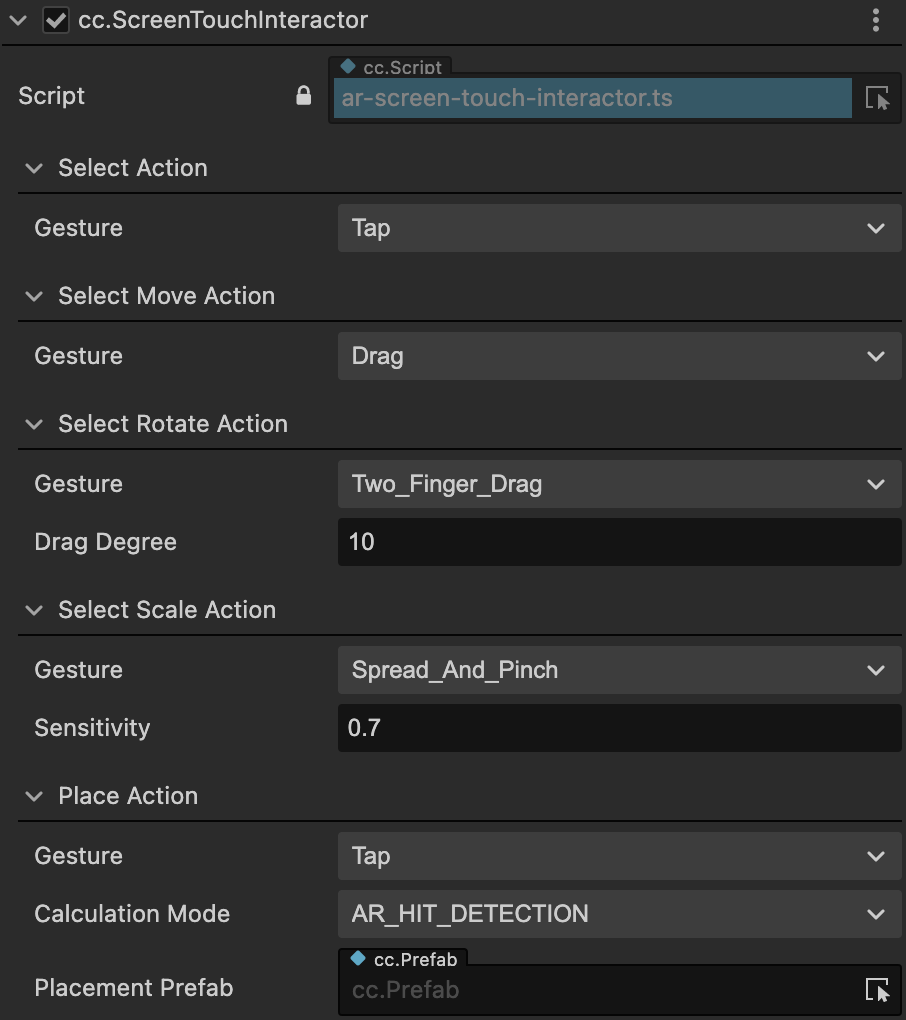
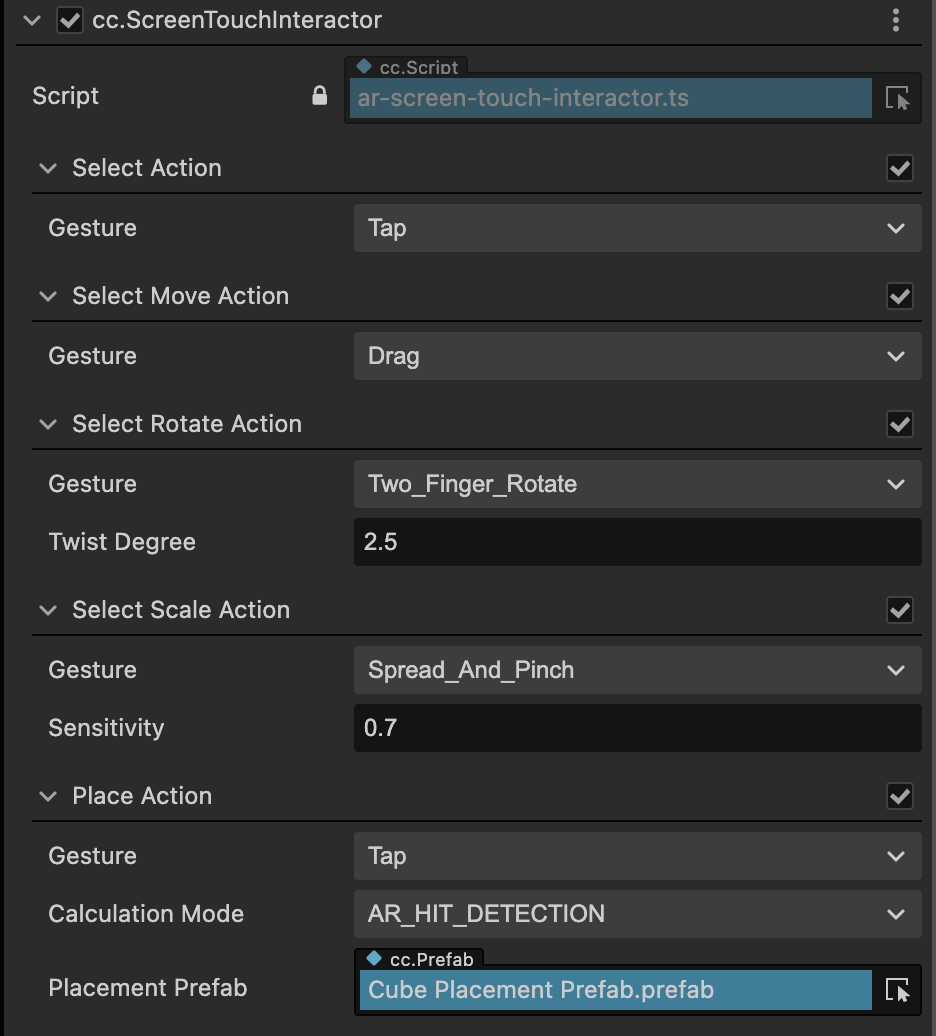
v1.2.0 新增功能

Changed region(s): [[0.0, 0.0, 1.0, 1.0], [0.3709, 0.699, 0.4327, 0.7294], [0.3709, 0.5167, 0.4327, 0.5471]]

diff --git a/zh/xr/architecture/component.md b/zh/xr/architecture/component.md
@@ -86,6 +86,14 @@ HMD（Head Mounted Display）头戴显示设备控制器，可以认为所有具
 | Auto Focus               | 开启或关闭相机自动对焦功能。关闭时，使用固定对焦模式。自动对焦功能是否可用取决于设备相机。 |
 | Light Estimate（实验性） | 开启后，运行时估计环境光各项属性并实时调整场景光照，让虚拟物体具有与真实场景相同的光照效果（光照一致性）。 |
 
+注：v1.2.0以上的版本光照估计支持两种模式：Basic和HDR。
+
+若需要启用Basic模式，需要将场景中Skybox的Envmap属性设置为LDR。
+
+若需要启用HDR模式，需要将场景中Skybox的Envmap属性设置为HDR。
+
+*当前iOS平台仅支持Basic模式。
+
 ## 交互组件
 
 一次交互操作需要有两种对象协调完成：交互主体和被交互物，对应的交互组件由此也分为两类：Interactor（交互器）和 Interactable（可交互对象）。
@@ -151,27 +159,30 @@ HMD（Head Mounted Display）头戴显示设备控制器，可以认为所有具
 
 <img src="component/screen_touch_interactor.png" alt="screen_touch_interactor" style="zoom:50%;" />
 
-| 行为                | 属性                                                         | 说明                                 |
-| ------------------- | ------------------------------------------------------------ | ------------------------------------ |
-| Select Action       |                                                              | 选择行为相关配置                     |
-|                     | Gesture                                                      | 允许用户操作虚拟物体的可选收拾类型。 |
-| Double Tap Gap      | Gesture选择为DoubleTap时出现此项，当两次点击的时间间隔小于此值时，判定为双击 |                                      |
-| Hold Touch Duration | Gesture选择为HoldTouch时出现此项，当触碰屏幕时间大于此值时，判定为长按 |                                      |
-| Move Action         |                                                              | 移动行为相关配置                     |
-|                     | Gesture                                                      | 绑定移动行为的手势                   |
-| Rotate Action       |                                                              | 旋转行为相关配置                     |
-|                     | Gesture                                                      | 绑定旋转行为的手势                   |
-| Drag Degree         | Gesture选择为2FingersDrag时出现此项，双指拖动速率            |                                      |
-| Twist Degree        | Gesture选择为2FingersRotate时出现此项，双指旋转速率          |                                      |
-| Scale Action        |                                                              | 放缩行为相关配置                     |
-|                     | Gesture                                                      | 绑定放缩行为的手势                   |
-| Sensitivity         | 放缩的灵敏度                                                 |                                      |
-| Place Action        |                                                              | 放置行为相关配置                     |
-|                     | Gesture                                                      | 绑定放置行为的手势                   |
-| Calculation Mode    | 当将物体放置在AR表面时，用于计算命中点位置的方法。           |                                      |
-| Placement Prefab    | 引用挂载Placeable组件的预置体                                |                                      |
+| 行为          | 属性              | 说明                                                         |
+| ------------- | ----------------- | ------------------------------------------------------------ |
+| Select Action |                   | 选择行为相关配置，可控制是否启用。                           |
+|               | Gesture           | 允许用户操作虚拟物体的可选收拾类型。                         |
+|               | Double Tap Gap    | Gesture选择为DoubleTap时出现此项，当两次点击的时间间隔小于此值时，判定为双击。 |
+|               | HoldTouchDuration | Gesture选择为HoldTouch时出现此项，当触碰屏幕时间大于此值时，判定为长按 |
+| Move Action   |                   | 移动行为相关配置，必须开启Select Action，可控制是否启用。    |
+|               | Gesture           | 绑定移动行为的手势                                           |
+| RotateAction  |                   | 旋转行为相关配置，必须开启Select Action，可控制是否启用。    |
+|               | Gesture           | 绑定旋转行为的手势                                           |
+|               | Drag Degree       | Gesture选择为2FingersDrag时出现此项，双指拖动速率。          |
+|               | Twist Degree      | Gesture选择为2FingersRotate时出现此项，双指旋转速率。        |
+| Scale Action  |                   | 放缩行为相关配置，必须开启Select Action，可控制是否启用。    |
+|               | Gesture           | 绑定放缩行为的手势                                           |
+|               | Sensitivity       | 放缩的灵敏度                                                 |
+| Place Action  |                   | 放置行为相关配置，可控制是否启用。                           |
+|               | Gesture           | 绑定放置行为的手势                                           |
+|               | Calculation Mode  | 放置虚拟物体时，用于计算命中点位置的方法。有三种模式：<br />AR_HIT_DETECTION：使用AR Hit Test功能进行命中检测，将物体放置在命中点的位置。<br />SPATIAL_DISTANCE：基于屏幕交互器前方的固定距离来放置内容。<br />COLLISION_DETECTION：基于射线的碰撞检测返回碰撞结果，将物体放置在碰撞点的位置。 |
+|               | Distance          | Calculation Mode选择为SPATIAL DISTANCE时出现此项，设置交互物摆放位置与交互器的距离。 |
+|               | Avoid Occlusion   | Calculation Mode选择为SPATIAL DISTANCE时出现此项，设置交互物摆放时是否受距离内的遮挡物影响摆放结果。开启时忽略遮挡，将交互物放置在固定位置；关闭时，若距离内出现遮挡物则会将交互物放置在遮挡处。 |
+|               | Located Prefab    | Calculation Mode选择为SPATIAL DISTANCE时出现此项，用于定位虚拟物体的摆放位置。 |
+|               | Placement Prefab  | 引用挂载Placeable组件的预置体。                              |
 
-> **注意**：屏幕手势交互器功能需要扩展版本 **>=v1.1.0**，编辑器版本 **>=3.7.1**。
+> **注意**：屏幕手势交互器功能需要扩展版本 **>=v1.1.0**，编辑器版本 **>=3.7.1**。各手势行为开关控制功能需要扩展版本 **>=v1.2.0**。
 
 ### GrabInteractable
 

diff --git a/zh/xr/architecture/xr-composition-layer.md b/zh/xr/architecture/xr-composition-layer.md
@@ -1,0 +1,58 @@
+# XR 合成层
+
+在XR应用开发中，合成层（Composition Layer）是一种常用的技术，通常应用在混合现实场景，将虚拟现实场景和真实世界场景进行混合，合成层将根据用户设定的 layer 深度将不同的 layer 分别渲染到不同的图层中，然后将这些图层进行合成，形成一个完整的XR场景。同时，通过调整图层的透明度和深度，能达到虚拟对象与真实世界对象完美融合的效果。Compositor Layer技术可以实现高质量的XR渲染效果，为XR应用的开发和体验提供了很大的帮助和支持。
+
+## 合成层功能
+
+| 属性           | 说明                                                         |
+| -------------- | ------------------------------------------------------------ |
+| Layer Setting  | 合成层效果设置。                                             |
+| --Type         | 合成层的类型： Overlay：将纹理呈现在 Eye Buffer 前面。 Underlay：将纹理呈现在 Eye Buffer 后面。 |
+| --Shape        | 提供两种种形状的合成层： <br />Quad：具有四个顶点的平面纹理，通常用来显示场景中的文本或信息。<br /> Cylinder具有柱面弧度的圆柱形纹理，通常用于显示曲面 UI 界面。 |
+| --Redius       | 选择Cylinder时出现此项，设置曲面半径。                       |
+| --CentralAngle | 选择Cylinder时出现此项，设置中心角大小。                     |
+| --Depth        | 定义合成层在场景中的顺序。数值越小，越靠近 Eye Buffer。      |
+| TextureSetting | 材质效果设置。                                               |
+| --Camera       | 用于绑定合成层要获取动态纹理的相机。                         |
+| --Width        | 设置相机RT的宽。                                             |
+| --Height       | 设置相机RT的高。                                             |
+
+
+
+## 使用合成层
+
+目前合成层功能可以渲染动态纹理，主要应用于渲染Camera所采集的画面。
+
+以下案例实现一个Overlay表现的镜子对象，可以反射XR角色的动作表现。
+
+### 配置步骤
+
+先在场景中创建完整的XR代理节点用于设备追踪。并绑定简单的头显/手柄模型。
+
+![](xr-composition-layer/create-xr-actor.png)
+
+场景中添加任意节点，以空节点为例。为其添加合成层组件，在属性检查器面板点击添加组件，找到 **XR > Extra > XRCompositionLayer**，添加组件。
+
+<img src="xr-composition-layer/add-empty-node.png" style="zoom:50%;" />
+
+<img src="xr-composition-layer/add-composition-comp.png" alt="add-composition-comp" style="zoom:50%;" />
+
+在场景中创建一个Camera节点，并将其位置、朝向调整为需要的表现。
+
+<img src="xr-composition-layer/add-camera.png" style="zoom:50%;" />
+
+![](xr-composition-layer/change-camera-pos.png)
+
+将Camera的Clear Flags设置为SOLID_COLOR，并将Clear Color的透明度设置为0。
+
+<img src="xr-composition-layer/set-clear-flags.png" style="zoom:50%;" />
+
+将此Camera节点挂载到Node身上添加的cc.XRCompositionLayer组件的Camera属性中。并调整其渲染分辨率、Scale大小和位置，尽量保证Scale的长宽比和渲染分辨率的长宽比相同，否则画面会出现拉伸。Layer Setting 的 Type 选为Overlay，Shape选为Quad。
+
+<img src="xr-composition-layer/config-compositionlayer.png"  style="zoom:50%;" />
+
+打包后效果如下：
+
+![overlay-effect](xr-composition-layer/overlay-effect.gif)
+
+注：使用合成层功能需要扩展版本 **>=1.2.0**，编辑器版本 **>=3.7.3**。

diff --git a/zh/xr/architecture/xr-pass-through.md b/zh/xr/architecture/xr-pass-through.md
@@ -1,0 +1,33 @@
+# 透视
+
+透视（Pass Through）的实现方式是通过XR设备的摄像头捕捉现实世界的场景，再将其传输到显示器上，让用户可以看到现实世界的场景。在虚拟现实环境中，用户无法感知现实世界的环境，容易发生碰撞或者其他安全问题，使用See-Through技术可以让用户感知现实世界的环境，不但可以更加安全地在虚拟现实环境中行动，还可以增强虚拟现实的沉浸感。
+
+## 透视功能
+
+XR扩展提供了专门用于渲染透视图像的层，同时使用合成层技术控制透视图像与虚拟场景的融合显示关系。
+
+| 属性      | 说明                                                  |
+| --------- | ----------------------------------------------------- |
+| Placement | 指定Pass Through Layer的合成方式。                    |
+| Depth     | 设置深度来指定Pass Through在Composition Layer的排序。 |
+| Opacity   | 设置Pass Through图像的不透明度。                      |
+
+注：此功能对接OpenXR专用的pass through API。若设备透视功能未对接OpenXR标准API，则无法使用此功能。
+
+## 开启透视
+
+调整 **XR HMD** 节点Camera组件的Clear Flags为SOLID_COLOR，Clear Color的不透明度调为0。
+
+<img src="xr-pass-through/set-hmd-camera.png" style="zoom:50%;" />
+
+为XR HMD节点添加透视组件，找到 **XR > Extra > XRPassThroughLayer**，点击添加。
+
+<img src="xr-pass-through/add-pass-throught-layer.png" style="zoom:50%;" />
+
+要想将透视视频图像显示在所有3D内容之下，**Placement** 属性请选择为 **Underlay**。
+
+打包即可看到透视效果。
+
+![](xr-pass-through/pass-through-effect.png)
+
+注：使用透视功能需要扩展版本 **>=1.2.0**，编辑器版本 **>=3.7.3**。

diff --git a/zh/xr/architecture/assets.md b/zh/xr/architecture/assets.md
@@ -14,7 +14,7 @@
 | Ray Interactor          | 用于进行远距离交互的射线交互器，包含对 XR 设备手柄控制器的 I/O 映射以及射线交互功能。 | PoseTracker<br />XRController<br />RayInteractor<br />Line   |
 | Direct Interactor       | 用于进行近距离直接交互的交互器，同时也包含了对 XR 设备手柄控制器的 I/O 映射以及交互功能 | PoseTracker<br />XRController<br />DirectInteractor          |
 | Gaze Pointer Interactor | 用于进行凝视点交互的交互器，跟随头动，按凝视时间来触发交互行为 | UITransform<br />RenderRoot2D<br />XRGazeInteractor          |
-| Screen Touch Interactor | 适用于手持移动端设备的屏幕手势交互起，将屏幕手势转化为交互行为同场景中的对象进行交互。 | ScreenTouchInteractor                                        |
+| ScreenTouchInteractor | 适用于手持移动端设备的屏幕手势交互起，将屏幕手势转化为交互行为同场景中的对象进行交互。 | ScreenTouchInteractor                                        |
 | Locomotion Checker      | 运动检查器，充当所有虚拟运动驱动访问 XR Agent 的仲裁者，可以保证固定时间内对唯一的运动状态的维持。 | LocomotionChecker                                            |
 | Teleportable            | 支持与交互器发生传送交互行为的交互物，可以传送 XR Agent 到此对象相关的一个位置。 | Teleportable<br />InteractableEvents                         |
 | Simple Interactable     | 简易的交互物对象，用户可以在此对象上自定义扩展任意的交互行为 | InteractableEvents                                           |

diff --git a/zh/xr/project-deploy/webxr-proj-deploy.md b/zh/xr/project-deploy/webxr-proj-deploy.md
@@ -1,0 +1,27 @@
+# WebXR 项目配置
+
+WebXR项目的创建和普通XR项目创建流程保持一致。
+
+若需要创建沉浸式虚拟现实(VR)体验的工程，可以参考[VR 项目创建](vr-proj-deploy.md)。
+
+若需要创建沉浸式增强现实(AR)体验的工程，可以参考[AR 项目创建](ar-proj-deploy.md)。
+
+部署完毕之后需要为 **XR Agent** 节点添加 **cc.WebXRSessionController** 组件，组件位置为：**XR > Device > WebXRSessionController**。
+
+根据需要选择默认Session Mode：
+
+- IMMERSIVE_AR：Session 将独占访问沉浸式XR设备，渲染的内容将与现实世界的环境混合在一起。
+- IMMERSIVE_VR：Session 对场景的渲染不会被被覆盖或融入现实环境。
+- INLINE：3D内容输出在标准HTML文档的元素上下文中内联显示，而不会占据整个视觉空间。inline session既可以在单目渲染的设备呈现，也可以在双目立体渲染的设备中呈现；而且不关心设备是否可进行位姿追踪。inline session 不需要特殊的设备，在任何提供WebXR API支持的[用户代理](https://developer.mozilla.org/en-US/docs/Glossary/User_agent)上都可以使用。
+
+<img src="webxr-proj-deploy/add-wenxr-session-ctrl.png" style="zoom:50%;" />
+
+## WebXR 案例
+
+Dashboard中的两个案例都提供了专用于 WebXR 的场景。
+
+VR案例的WebXR主场景为webxr-main，启动时务必将此场景设为启动场景。
+
+AR(移动端)案例的WebXR主场景为 webxr-main，启动时务必将此场景设为启动场景，其他场景如下所示。
+
+<img src="webxr-proj-deploy/ar-scenes.png" style="zoom:50%;" />

diff --git a/zh/xr/architecture/xr-spatial-audio.md b/zh/xr/architecture/xr-spatial-audio.md
@@ -1,0 +1,27 @@
+# XR 空间音频
+
+XR空间音频是虚拟现实领域中的一项重要技术，它可以模拟现实世界中的音频环境，让用户在虚拟现实环境中获得更加真实的听觉体验。基于头戴显示器的声音跟踪技术可以通过跟踪用户的头部运动来模拟现实世界中的音频环境。当用户在虚拟现实环境中移动头部时，系统可以根据用户的头部运动和位置来调整音频的位置和方向，从而模拟出现实世界中的音频环境。
+
+## XR 空间音频功能
+
+| 属性                   | 描述                             |
+| ---------------------- | -------------------------------- |
+| Clip                   | 引用需要挂载的音频文件。         |
+| Loop                   | 是否循环播放音频。               |
+| Play On Wake           | 是否在启动项目时自动播放音频。   |
+| Volume                 | 音量大小。                       |
+| Distance Rolloff Model | 音量根据距离效应进行衰减的模型。 |
+
+## XR 空间音频使用
+
+选择想要添加音频的节点对象，在属性管理器中添加组件：**XR > Extra > XRSpatialAudioSource**
+
+<img src="xr-spatial-audio/add-spatial-audio.png" style="zoom:50%;" />
+
+## 声明
+
+空间音频功能引用了GoogleVR库，许可凭证详见 licenses 文件夹中 LICENSE_googlevr.txt。
+
+有关涵盖此SDK的谷歌api服务条款，请参阅https://developers.google.com/terms/。
+
+注：使用空间音频功能需要扩展版本 **>=1.2.0**，编辑器版本 **>=3.7.3**。

diff --git a/zh/xr/project-deploy/webxr-proj-pub.md b/zh/xr/project-deploy/webxr-proj-pub.md
@@ -1,0 +1,42 @@
+# WebXR 项目构建与发布
+
+完成 WebXR 应用的[项目设置](webxr-proj-deploy.md)并完成项目开发之后，即可打包 WebXR 应用。点击 **菜单栏 -> 项目 -> 构建发布**。
+
+## 配置WebXR构建属性
+
+构建平台选择 **Web移动端**。
+
+<img src="webxr-proj-pub/select-web-mobile.png" style="zoom:50%;" />
+
+开启构建面板最后一个属性 **WebXR**。
+
+<img src="webxr-proj-pub/enable-webxr.png" style="zoom:50%;" />
+
+点击构建即可。
+
+## 配置https环境
+
+WebXR 所使用的用于提供Web资源的服务必须使用[安全上下文(secure context)](https://developer.mozilla.org/en-US/docs/Web/Security/Secure_Contexts)。
+
+而启动https的域名的服务一般需要配置.pem(证书文件)。
+
+将.pem存放至构建文件夹的根目录。
+
+![](webxr-proj-pub/https-license.png)
+
+在命令终端的此目录下输入：**https-server -S** 。启动https服务即可。
+
+<img src="webxr-proj-pub/start-https-server.png" style="zoom:50%;" />
+
+## 选择可用的设备和浏览器
+
+支持ARCore的设备请参考[ARCore官方文档](https://developers.google.com/ar/devices)。
+
+支持WebXR的浏览器请参考[这里](https://developer.mozilla.org/en-US/docs/Web/API/WebXR_Device_API#browser_compatibility)。
+
+## 打开浏览器的webxr能力
+
+使用Chrome浏览器访问WebXR应用前需要确认浏览器webxr的功能是否开启。
+
+访问 **[chrome://flags](chrome://flags)** ，将 **webxr incubations** 改为 **Enable**。
+

diff --git a/zh/xr/version-history.md b/zh/xr/version-history.md
@@ -1,5 +1,27 @@
 # 版本历史
 
+### V1.2.0
+
+新增：
+
+- iOS支持基础模式光照估计，华为安卓平台支持基础和HDR模式光照估计。
+- 支持将XR应用构建发布至WebXR平台，会话支持inline、immersive-vr、immersive-ar三种模式。
+- 屏幕手势交互器新增行为控制功能，可自由选择控制交互物的手势行为。
+- 屏幕手势交互器组件放置功能新增放置位置的计算方式，可以基于屏幕交互器固定距离来放置内容。
+- 新增合成层（Composition Layer）功能，支持Overlay、Underlay两种渲染方式。
+- 新增透视（Pass Through）功能，支持OpenXR标准接口开启一体机视频透视功能，配合合成层可调整透视视频流的渲染方式（Overlay/Underlay）。
+- 新增XR Web Preview功能，支持在一体机端浏览web内容。
+- XR视频播放器支持解析播放3D视频资源。
+- 支持空间音频，允许从各个方向渲染音频，模拟声音在物理世界中的表现，增加沉浸感。
+- 新增静态注视点渲染（FFR）调节，支持使用OpenXR标准接口开启FFR并调节渲染等级。
+- Snapdragon Spaces SDK支持更新到0.11.1，并新增 RGB Camera 、Meshing 特性的支持。
+
+修复：
+
+- 屏幕手势交互的效果优化。
+- 华为VR Glass的手柄震动时间0无效问题。
+- 转换AR Camera报错问题修复。
+
 ### v1.1.1
 
 新增：

diff --git a/zh/SUMMARY.md b/zh/SUMMARY.md
@@ -382,11 +382,16 @@
     - [EXCEL 导入示例](editor/l10n/example-excel.md)
 
 - [XR](xr/index.md)
+    - [版本历史](xr/version-history.md)
     - [架构](xr/architecture/index.md)
         - [内置资源与预制体](xr/architecture/assets.md)
         - [XR 组件](xr/architecture/component.md)
         - [预览](xr/architecture/preview.md)
         - [XR 视频播放器](xr/architecture/xr-video-player.md)
+        - [XR 网页浏览器](xr/architecture/xr-webview.md)
+        - [XR 空间音频](xr/architecture/xr-spatial-audio.md)
+        - [XR 合成层](xr/architecture/xr-composition-layer.md)
+        - [透视](xr/architecture/xr-pass-through.md)
         - [AR](xr/architecture/ar-introduce.md) 
           - [AR 相机](xr/architecture/ar-camera.md) 
           - [AR Manager](xr/architecture/ar-manager.md) 
@@ -397,7 +402,9 @@
         - [VR 项目构建与发布](xr/project-deploy/vr-proj-pub.md) 
         - [AR 项目创建](xr/project-deploy/ar-proj-deploy.md) 
         - [AR 项目构建与发布](xr/project-deploy/ar-proj-pub.md) 
-
+        - [WebXR 项目配置](xr/project-deploy/webxr-proj-deploy.md)
+        - [WebXR 项目构建与发布](xr/project-deploy/webxr-proj-pub.md)
+    
 - [原生开发](native/overview.md)
     - [JSB 2.0 使用指南](advanced-topics/JSB2.0-learning.md)
         - [JSB 手动绑定](advanced-topics/jsb-manual-binding.md)

diff --git a/zh/xr/architecture/xr-webview.md b/zh/xr/architecture/xr-webview.md
@@ -1,0 +1,24 @@
+# XR 网页浏览器
+
+在XR中，网页浏览器可以让用户在虚拟现实环境中访问和浏览网页。用户可以设备控制器与网页界面进行交互，如选择链接、滚动页面等等操作，以增强用户的沉浸感和体验。
+
+## XR 网页浏览器功能
+
+| 属性    | 描述                                     |
+| ------- | ---------------------------------------- |
+| Content | 指定用于渲染网页内容的MeshRenderer对象。 |
+| Url     | 网页链接。                               |
+
+## 使用 XR 网页浏览器
+
+层级管理器右键 **创建 > XR > XR Webview**。
+
+默认创建一个带有 cc.MeshRenderer 组件的节点作为子节点 Webview Content。
+
+![](xr-webview/create-webview.png)
+
+构建发布应用即可看到网页内容。
+
+![](xr-webview/web-effect.png)
+
+注：使用网页浏览器功能需要扩展版本 **>=1.2.0**，编辑器版本 **>=3.7.3**。

diff --git a/zh/xr/project-deploy/vr-proj-pub.md b/zh/xr/project-deploy/vr-proj-pub.md
@@ -10,6 +10,16 @@
 
 目前支持的 VR 设备都采用了安卓系统，开发者需搭建对应的开发环境，详情可参考 [安装配置原生开发环境](../../editor/publish/setup-native-development.md)。
 
+XR专用构建属性描述如下：
+
+**Rendering Scale**：渲染分辨率。
+
+**MSAA**：调整多重采样抗锯齿等级。
+
+**Remote Preview**：启用无限投屏预览。
+
+**Foveation Level**：调整注视点渲染等级，级别越高时GPU负载越低，但双目渲染纹理边缘分辨率也会降低。（注：1、注视点渲染采用OpenXR通用接口，若设备FFR功能未对接OpenXR标准，此功能将不生效。2、此功能需要扩展版本 **>=1.2.0**，编辑器版本 **>=3.7.3**。）
+
 #### 构建
 
 之后在构建任务中根据需要选择 **构建**、**生成** 或 **运行** 即可。
